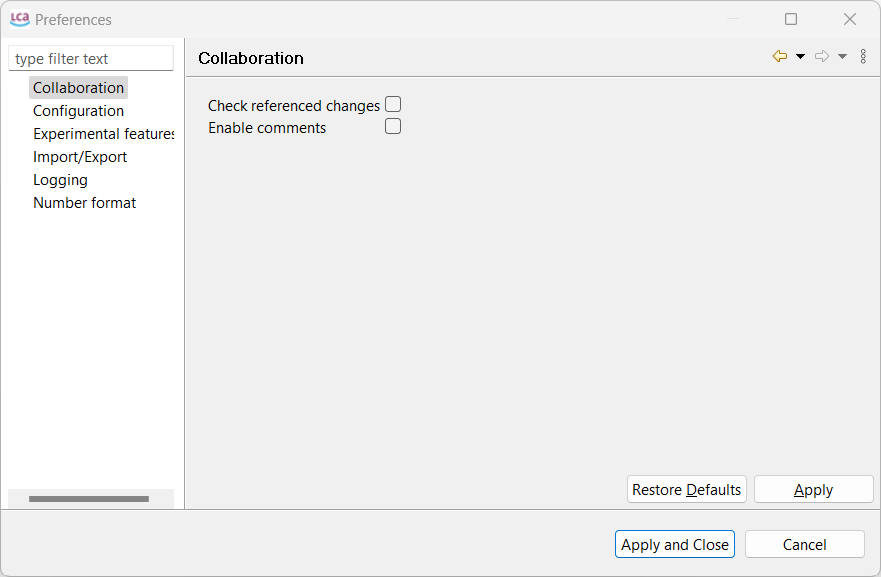
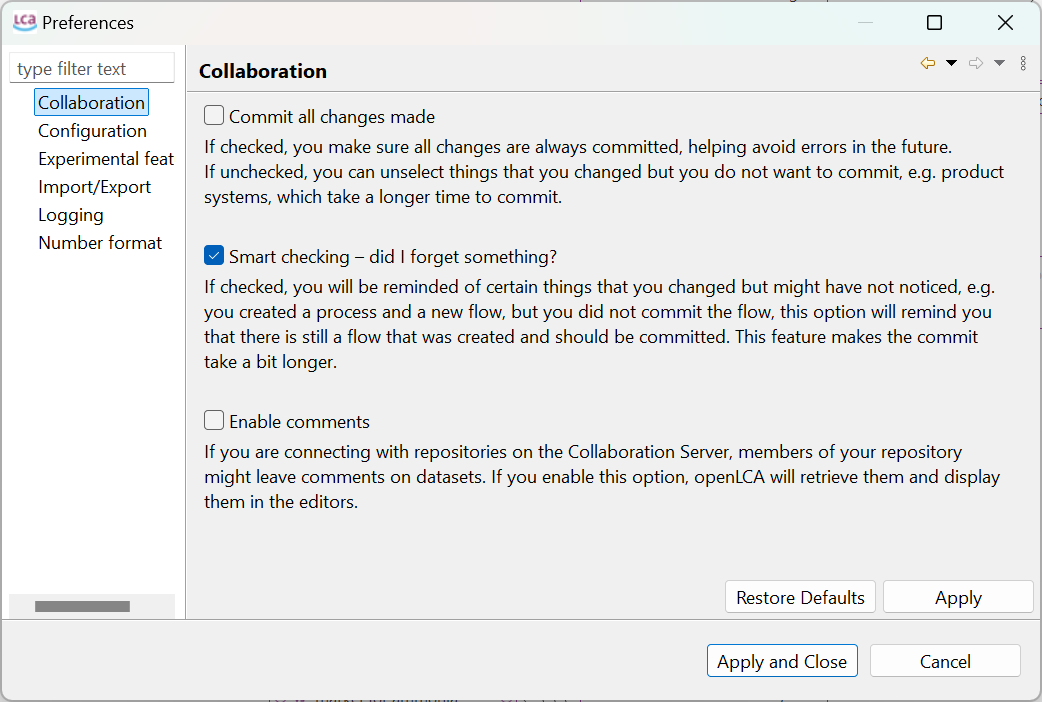
changes to collaboration server in the runnopenLCA

diff --git a/src/running_olca/toolbar_file.md b/src/running_olca/toolbar_file.md
@@ -10,11 +10,13 @@ The following options are available under **File**:
 
 -   **Preferences:** Under preferences, you can customize openLCA upon your needs. Here, you can find settings as memory allocation for openLCA, and language selection.
 
-    -   **Collaboration:** Here, you can select your preferred configurations for working with the collaboration server. 
+    -   **Collaboration:** Here, you can select your preferred configurations for working with the collaboration server. Each bullet point comes already with a description and is not further described here:
 
-        - _Check referenced changes_: if this is checked, openLCA will scan - after selecting datasets for a commit - the database for changes in datasets that are referenced by the selected datasets and suggests to also commit them. E.g. if you want to commit a process dataset, and you have added a newly created flow to the input table, the flow is considered a referenced change.
+        - _Check referenced changes_
 
-        - _Enable comments_: if this is checked, openLCA loads comments that were added to data sets on the LCA Collaboration Server and displays them in the model editors.
+        - _Smart checking_
+		
+		- _Enable comments_
     
             ![](../media/settings_collaboration.png)  
             _Preferences Collaboration_

diff --git a/src/updates.md b/src/updates.md
@@ -2,6 +2,13 @@
 
 In this section you can check what the major manual updates were about and when they were released.
 
+## 23.06.2025
+
+- allow [(EPD) results as default providers in processes](./epds/life_cycle_models.md)
+- updated ["soda4LCA"](./epds/soda4lca.md) feature 
+- updated [Analysis groups](./res_analysis/res_analysis_groups.md)
+- New chapter about our experimental feature [Parameter´ Analysis](./parameters/parameter_analysis.md)
+
 ## 16.04.2025
 
 - Minor updates
